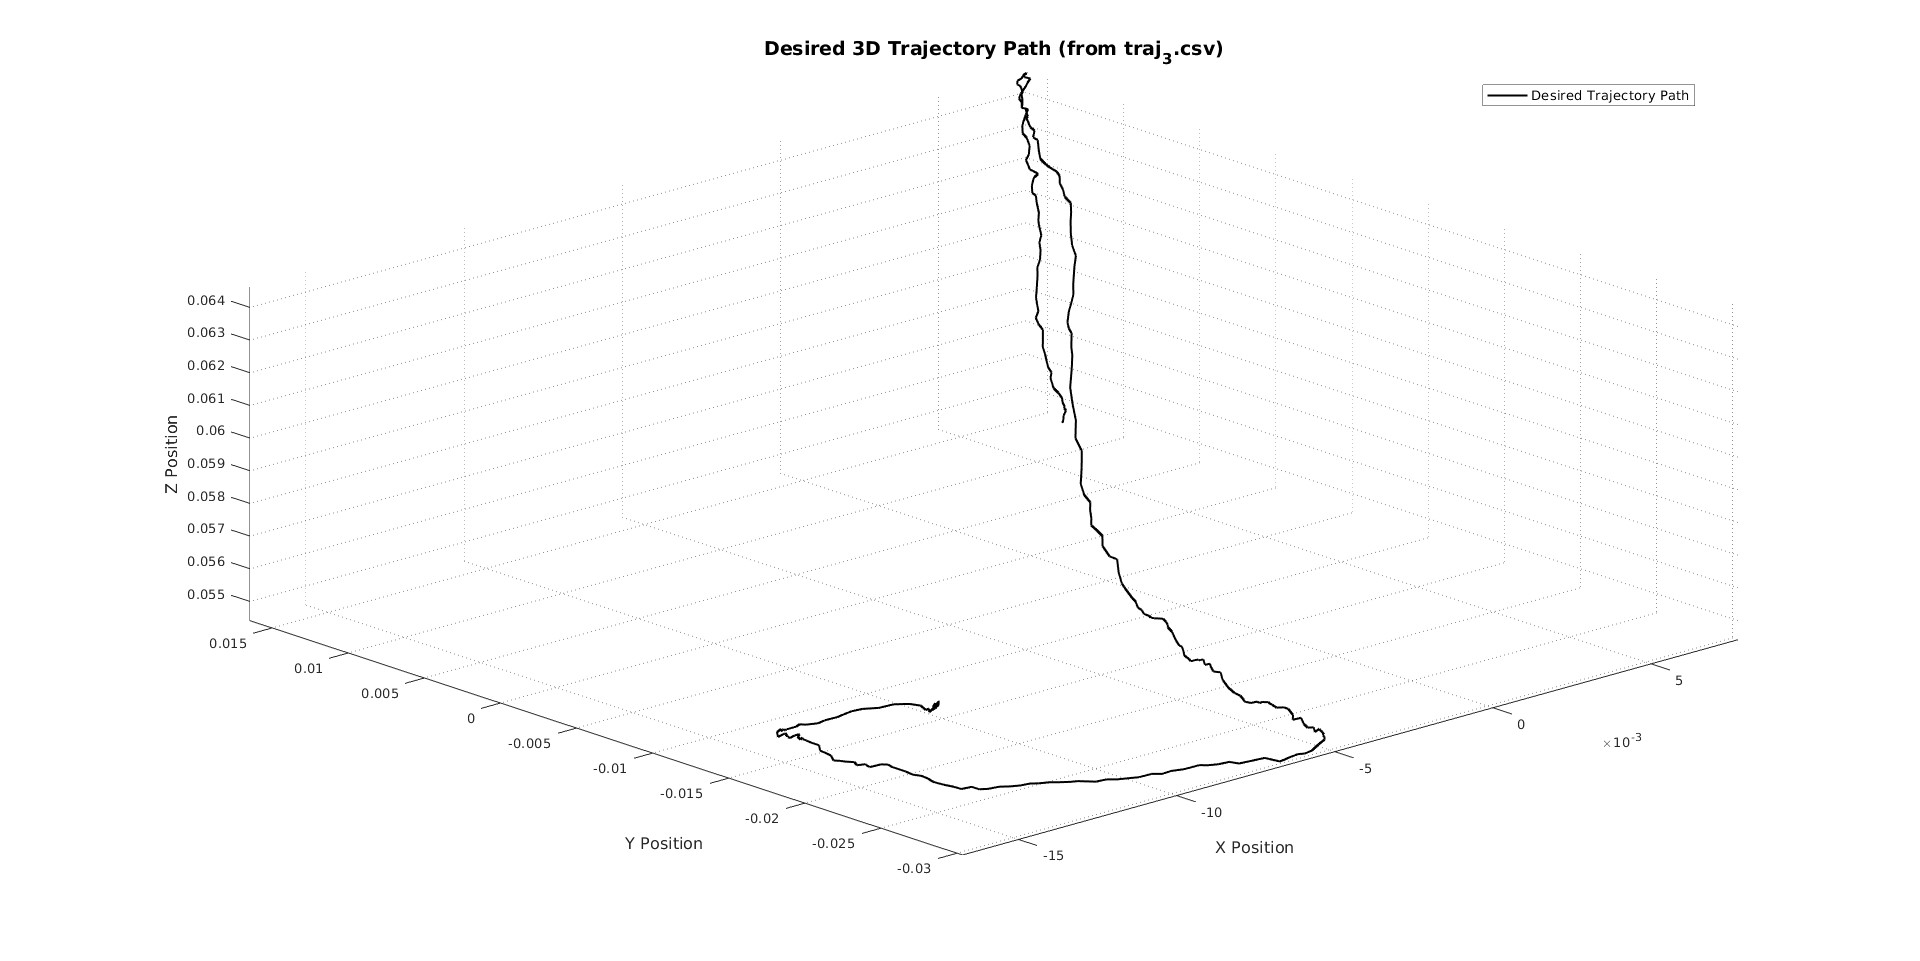
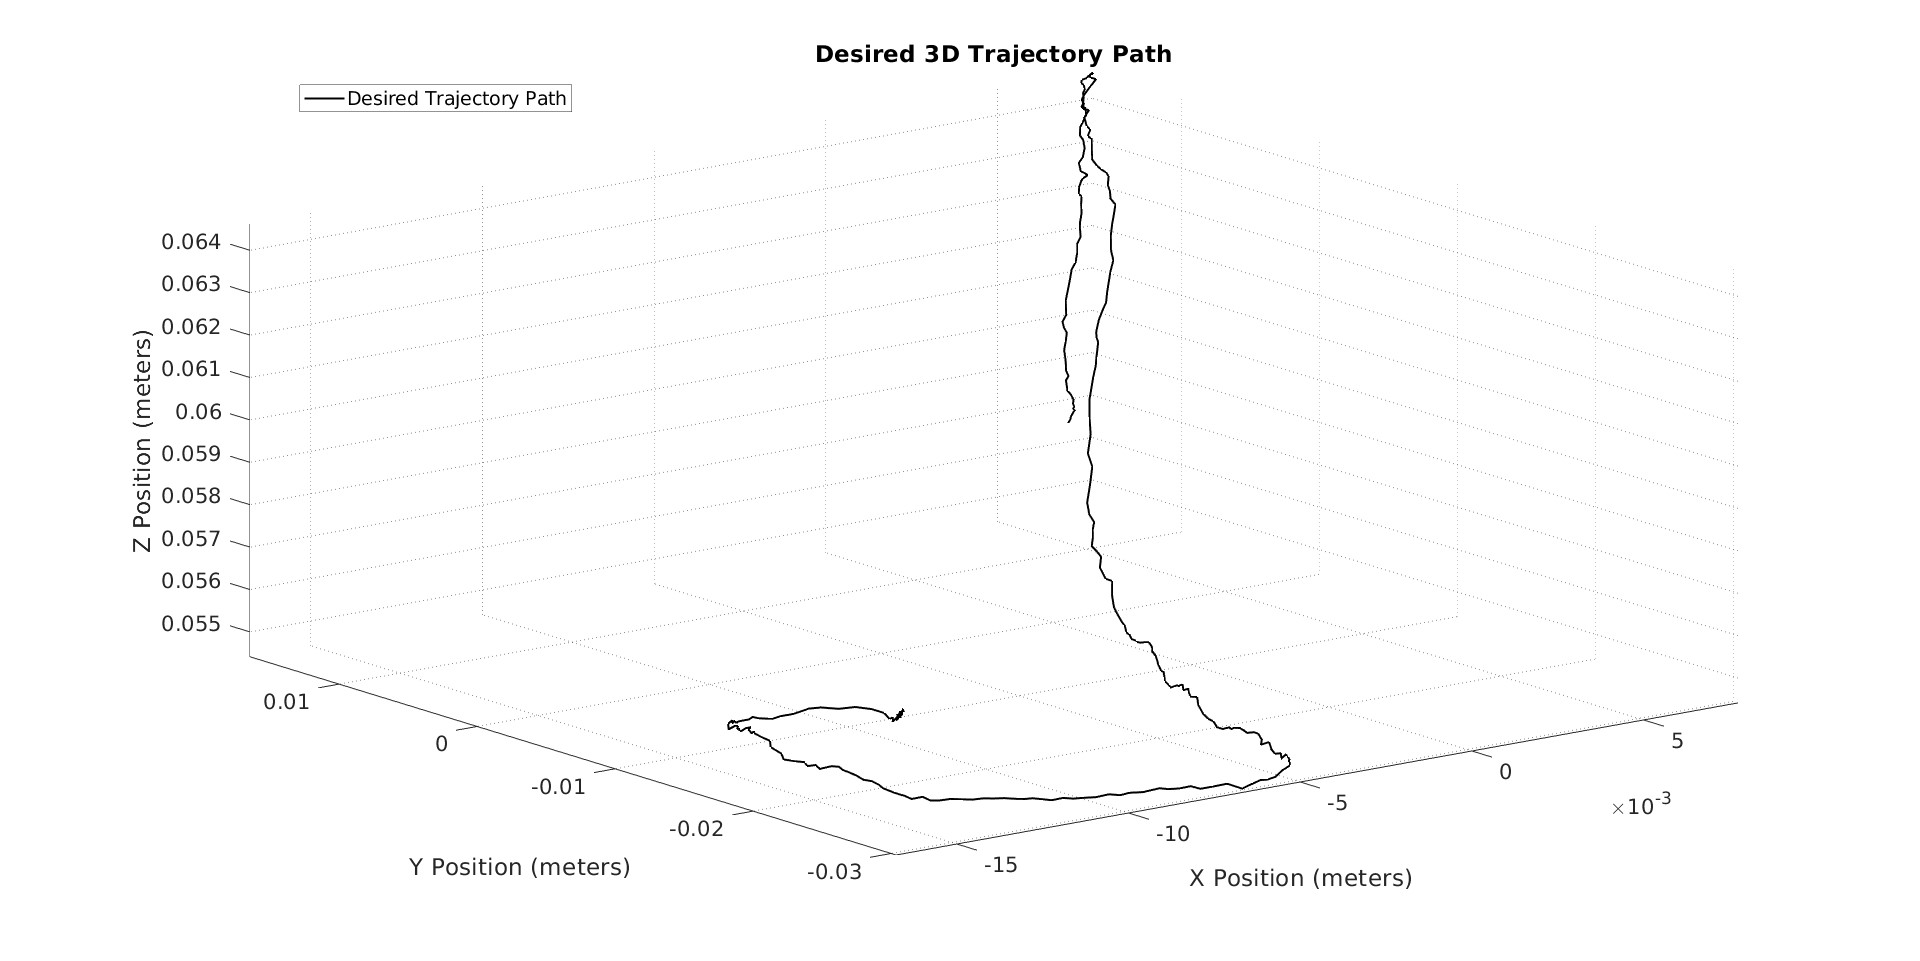
New plotting

diff --git a/performance_data/results_plotting.m b/performance_data/results_plotting.m
@@ -1,6 +1,6 @@
 % MATLAB Script for Thesis Plotting
-% Author: Your Name/Gemini
-% Date: July 9, 2025 (CRITICAL FIX: Correct colors for Combined Pitch/Roll Error in non-trajectory data)
+% Author: Liam Nolan
+% Date: July 19, 2025 (Updated for increased font sizes and color correction)
 clear; close all; clc;
 
 %% Configuration
@@ -29,12 +29,11 @@ traj3_x_idx = 2;
 traj3_y_idx = 3;
 traj3_z_idx = 4;
 
-
-% Plotting parameters for thesis quality
+% Plotting parameters for thesis quality - INCREASED FONT SIZES
 lineWidth = 1.5;
-fontSizeTitle = 14;
-fontSizeLabels = 12;
-fontSizeLegend = 10;
+fontSizeTitle = 24;    % Increased from 18
+fontSizeLabels = 22;   % Increased from 16
+fontSizeLegend = 20;   % Increased from 14
 gridAlpha = 0.5;
 gridLineStyle = ':';
 
@@ -42,18 +41,15 @@ gridLineStyle = ':';
 desired_color = 'k'; % Black for Desired/Commanded
 lqr_color = 'r';     % Red for LQR Actual
 p_color = 'b';       % Blue for P-Control / LQI+FF Actual
+p_noff_color = 'r';  % Green for Proportional Control (No Feedforward) in combined error plots
 
 % Line styles for actual positions and errors
 actual_line_style = '--';
 commanded_line_style = '-';
 
-% Line styles and colors for combined error plots in NON-TRAJECTORY data (for differentiation)
-% This will ensure different colors for LQI+FF vs P-Control, and LQR vs P-Control in the basic cases.
-combined_error_line_styles = {'b-', 'r-'}; % Blue for first, Red for second in combined error plots.
-
-
 %% Process Pitch Data (Individual Control Performance)
 disp('--- Processing Pitch Data (Individual Control Performance) ---');
+
 % Initialize figure for combined Pitch Error plot BEFORE the loop
 figure('Name', 'Combined Pitch Joint Error');
 set(gcf, 'WindowState', 'maximized');
@@ -77,16 +73,20 @@ for i = 1:length(pitchFiles)
     joint_error = joint_effort - joint_position; % Commanded - Actual
 
     [~, baseName, ~] = fileparts(fileName);
+
     % Determine case name for legend and plot color for individual plots
     if contains(baseName, 'LQI_FF', 'IgnoreCase', true)
         caseName = 'Pitch with LQI and Feedforward control';
         actual_plot_color_individual = p_color; % Still blue for individual plot
+        plot_color_combined_error = p_color; % Blue for LQI+FF in combined error
     elseif contains(baseName, 'P_NOFF', 'IgnoreCase', true) || contains(baseName, 'P', 'IgnoreCase', true)
         caseName = 'Pitch with Proportional control';
         actual_plot_color_individual = p_color; % Still blue for individual plot
+        plot_color_combined_error = p_noff_color; % Green for P-Control (non-FF) in combined error
     else
         caseName = strrep(baseName, '_', ' '); 
-        actual_plot_color_individual = 'g'; % Default if unexpected
+        actual_plot_color_individual = 'k'; % Default if unexpected
+        plot_color_combined_error = 'k'; % Default if unexpected
     end
 
     %% Plot 1: JOINT Velocity vs Time (Pitch) - Individual Plot
@@ -98,7 +98,7 @@ for i = 1:length(pitchFiles)
     title(['Pitch Joint Motor Speed vs Time (', caseName, ')'], 'FontSize', fontSizeTitle);
     xlabel('Time (s)', 'FontSize', fontSizeLabels);
     ylabel('PWM Value', 'FontSize', fontSizeLabels);
-    set(gca, 'FontSize', fontSizeLabels);
+    set(gca, 'FontSize', fontSizeLabels); % Apply font size to axis ticks
     disp(['Displayed plot: ', baseName, ' - Joint Velocity']);
 
     %% Plot 2: JOINT Commanded and Actual Position vs Time (Pitch) - Individual Plot
@@ -114,13 +114,13 @@ for i = 1:length(pitchFiles)
     xlabel('Time (s)', 'FontSize', fontSizeLabels);
     ylabel('Position (degrees)', 'FontSize', fontSizeLabels);
     legend('show', 'Location', 'best', 'FontSize', fontSizeLegend);
-    set(gca, 'FontSize', fontSizeLabels);
+    set(gca, 'FontSize', fontSizeLabels); % Apply font size to axis ticks
     disp(['Displayed plot: ', baseName, ' - Joint Commanded & Actual Position']);
 
     %% Plot 3: JOINT Error vs Time (Pitch) - Combined Plot
     figure(findobj('Name', 'Combined Pitch Joint Error'));
-    % Use combined_error_line_styles for differentiation in this specific plot
-    plot(time, joint_error, combined_error_line_styles{mod(i-1, length(combined_error_line_styles)) + 1}, 'LineWidth', lineWidth);
+    % Use plot_color_combined_error for differentiation in this specific plot
+    plot(time, joint_error, plot_color_combined_error, 'LineWidth', lineWidth);
     pitchErrorLegends{end+1} = [caseName ' Error'];
     disp(['Added data to combined Pitch Error plot: ', baseName]);
     disp(' ');
@@ -135,11 +135,11 @@ title('Pitch Joint Error (Commanded - Actual) vs Time', 'FontSize', fontSizeTitl
 xlabel('Time (s)', 'FontSize', fontSizeLabels);
 ylabel('Joint Error (degrees)', 'FontSize', fontSizeLabels);
 legend(pitchErrorLegends, 'Location', 'best', 'FontSize', fontSizeLegend);
-set(gca, 'FontSize', fontSizeLabels);
+set(gca, 'FontSize', fontSizeLabels); % Apply font size to axis ticks
 disp('Displayed combined plot: Combined Pitch Joint Error');
 
-
 disp('--- Processing Roll Data (Individual Control Performance) ---');
+
 % Initialize figure for combined Roll Error plot BEFORE the loop
 figure('Name', 'Combined Roll Joint Error');
 set(gcf, 'WindowState', 'maximized');
@@ -163,16 +163,20 @@ for i = 1:length(rollFiles)
     joint_error = joint_effort - joint_position; % Commanded - Actual
 
     [~, baseName, ~] = fileparts(fileName);
+
     % Determine case name for legend and plot color for individual plots
     if contains(baseName, 'LQR', 'IgnoreCase', true)
         caseName = 'Roll with LQR control';
         actual_plot_color_individual = lqr_color; % Red for individual LQR plot
+        plot_color_combined_error = lqr_color; % Red for LQR in combined error
     elseif contains(baseName, 'P', 'IgnoreCase', true)
         caseName = 'Roll with Proportional control';
         actual_plot_color_individual = p_color; % Blue for individual P-Control plot
+        plot_color_combined_error = p_color; % Blue for P-Control in combined error
     else
         caseName = strrep(baseName, '_', ' '); 
-        actual_plot_color_individual = 'g'; % Default if unexpected
+        actual_plot_color_individual = 'k'; % Default if unexpected
+        plot_color_combined_error = 'k'; % Default if unexpected
     end
 
     %% Plot 1: JOINT Velocity vs Time (Roll) - Individual Plot
@@ -184,7 +188,7 @@ for i = 1:length(rollFiles)
     title(['Roll Joint Motor Speed vs Time (', caseName, ')'], 'FontSize', fontSizeTitle);
     xlabel('Time (s)', 'FontSize', fontSizeLabels);
     ylabel('PWM Value', 'FontSize', fontSizeLabels);
-    set(gca, 'FontSize', fontSizeLabels);
+    set(gca, 'FontSize', fontSizeLabels); % Apply font size to axis ticks
     disp(['Displayed plot: ', baseName, ' - Joint Velocity']);
 
     %% Plot 2: JOINT Commanded and Actual Position vs Time (Roll) - Individual Plot
@@ -200,13 +204,13 @@ for i = 1:length(rollFiles)
     xlabel('Time (s)', 'FontSize', fontSizeLabels);
     ylabel('Position (degrees)', 'FontSize', fontSizeLabels);
     legend('show', 'Location', 'best', 'FontSize', fontSizeLegend);
-    set(gca, 'FontSize', fontSizeLabels);
+    set(gca, 'FontSize', fontSizeLabels); % Apply font size to axis ticks
     disp(['Displayed plot: ', baseName, ' - Joint Commanded & Actual Position']);
 
     %% Plot 3: JOINT Error vs Time (Roll) - Combined Plot
     figure(findobj('Name', 'Combined Roll Joint Error'));
-    % Use combined_error_line_styles for differentiation in this specific plot
-    plot(time, joint_error, combined_error_line_styles{mod(i-1, length(combined_error_line_styles)) + 1}, 'LineWidth', lineWidth);
+    % Use plot_color_combined_error for differentiation in this specific plot
+    plot(time, joint_error, plot_color_combined_error, 'LineWidth', lineWidth);
     rollErrorLegends{end+1} = [caseName ' Error'];
     disp(['Added data to combined Roll Error plot: ', baseName]);
     disp(' ');
@@ -221,7 +225,7 @@ title('Roll Joint Error (Commanded - Actual) vs Time', 'FontSize', fontSizeTitle
 xlabel('Time (s)', 'FontSize', fontSizeLabels);
 ylabel('Joint Error (degrees)', 'FontSize', fontSizeLabels);
 legend(rollErrorLegends, 'Location', 'best', 'FontSize', fontSizeLegend);
-set(gca, 'FontSize', fontSizeLabels);
+set(gca, 'FontSize', fontSizeLabels); % Apply font size to axis ticks
 disp('Displayed combined plot: Combined Roll Joint Error');
 
 disp('--- Processing Trajectory Data (Main Focus for Comparisons) ---');
@@ -240,11 +244,12 @@ try
     plot3(desired_x, desired_y, desired_z, desired_color, 'LineWidth', lineWidth, 'DisplayName', 'Desired Trajectory Path');
     grid on;
     set(gca, 'GridAlpha', gridAlpha, 'GridLineStyle', gridLineStyle);
-    title('Desired 3D Trajectory Path (from traj_3.csv)', 'FontSize', fontSizeTitle);
-    xlabel('X Position', 'FontSize', fontSizeLabels);
-    ylabel('Y Position', 'FontSize', fontSizeLabels);
-    zlabel('Z Position', 'FontSize', fontSizeLabels);
+    title('Desired 3D Trajectory Path', 'FontSize', fontSizeTitle); % Simplified title
+    xlabel('X Position (meters)', 'FontSize', fontSizeLabels); % Added (meters)
+    ylabel('Y Position (meters)', 'FontSize', fontSizeLabels); % Added (meters)
+    zlabel('Z Position (meters)', 'FontSize', fontSizeLabels); % Added (meters)
     legend('show', 'Location', 'best', 'FontSize', fontSizeLegend);
+    set(gca, 'FontSize', fontSizeLabels); % Apply font size to axis ticks
     view(3); % Standard 3D view
     axis tight;
     disp('Displayed the single Desired 3D Trajectory Path plot.');
@@ -254,7 +259,6 @@ end
 
 % --- Process p_traj_follow.csv and lqr_traj_follow.csv for comparisons ---
 trajData = struct(); % Initialize struct to store data
-
 for i = 1:length(trajFollowFiles)
     fileName = trajFollowFiles{i};
     disp(['Loading file: ', fileName]);
@@ -291,13 +295,11 @@ for i = 1:length(trajFollowFiles)
     trajData.(key).pitch_effort = pitch_effort;
     trajData.(key).pitch_position = pitch_position;
     trajData.(key).caseName = caseName; 
-
     disp(['Loaded trajectory data: ', caseName]);
 end
 
 % --- Generate comparison plots for Trajectory Following Data ---
 if isfield(trajData, 'P') && isfield(trajData, 'LQR') % Ensure both files were loaded
-
     disp('Generating Trajectory Follow Comparison Plots...');
     
     %% Individual Commanded & Actual Position vs Time Plots for Trajectory Following
@@ -324,7 +326,7 @@ if isfield(trajData, 'P') && isfield(trajData, 'LQR') % Ensure both files were l
         xlabel('Time (s)', 'FontSize', fontSizeLabels);
         ylabel('Position (degrees)', 'FontSize', fontSizeLabels);
         legend('show', 'Location', 'best', 'FontSize', fontSizeLegend);
-        set(gca, 'FontSize', fontSizeLabels);
+        set(gca, 'FontSize', fontSizeLabels); % Apply font size to axis ticks
         disp(['Displayed 2D plot: ', currentKey, ' Roll Commanded & Actual Position vs Time']);
 
         % Plot: Pitch Commanded and Actual Position vs Time
@@ -340,17 +342,15 @@ if isfield(trajData, 'P') && isfield(trajData, 'LQR') % Ensure both files were l
         xlabel('Time (s)', 'FontSize', fontSizeLabels);
         ylabel('Position (degrees)', 'FontSize', fontSizeLabels);
         legend('show', 'Location', 'best', 'FontSize', fontSizeLegend);
-        set(gca, 'FontSize', fontSizeLabels);
+        set(gca, 'FontSize', fontSizeLabels); % Apply font size to axis ticks
         disp(['Displayed 2D plot: ', currentKey, ' Pitch Commanded & Actual Position vs Time']);
     end
-
 
     %% Combined Error Plots for Trajectory Follow Data
     
     % Calculate errors
     roll_error_p = trajData.P.roll_effort - trajData.P.roll_position; 
     pitch_error_p = trajData.P.pitch_effort - trajData.P.pitch_position; 
-
     roll_error_lqr = trajData.LQR.roll_effort - trajData.LQR.roll_position; 
     pitch_error_lqr = trajData.LQR.pitch_effort - trajData.LQR.pitch_position; 
 
@@ -365,9 +365,9 @@ if isfield(trajData, 'P') && isfield(trajData, 'LQR') % Ensure both files were l
     set(gca, 'GridAlpha', gridAlpha, 'GridLineStyle', gridLineStyle);
     title('Roll Joint Error (Commanded - Actual) vs Time: P vs LQR Trajectory Following', 'FontSize', fontSizeTitle);
     xlabel('Time (s)', 'FontSize', fontSizeLabels);
-    ylabel('Error (Commanded - Actual) (PWM Value - degrees)', 'FontSize', fontSizeLabels);
+    ylabel('Error (Commanded - Actual) (degrees)', 'FontSize', fontSizeLabels); % Corrected Y-label
     legend('show', 'Location', 'best', 'FontSize', fontSizeLegend);
-    set(gca, 'FontSize', fontSizeLabels);
+    set(gca, 'FontSize', fontSizeLabels); % Apply font size to axis ticks
     disp('Displayed combined plot: Trajectory Follow Roll Error');
 
     % Plot Combined Trajectory Follow Pitch Error
@@ -381,15 +381,13 @@ if isfield(trajData, 'P') && isfield(trajData, 'LQR') % Ensure both files were l
     set(gca, 'GridAlpha', gridAlpha, 'GridLineStyle', gridLineStyle);
     title('Pitch Joint Error (Commanded - Actual) vs Time: P vs LQR Trajectory Following', 'FontSize', fontSizeTitle);
     xlabel('Time (s)', 'FontSize', fontSizeLabels);
-    ylabel('Error (Commanded - Actual) (PWM Value - degrees)', 'FontSize', fontSizeLabels);
+    ylabel('Error (Commanded - Actual) (degrees)', 'FontSize', fontSizeLabels); % Corrected Y-label
     legend('show', 'Location', 'best', 'FontSize', fontSizeLegend);
-    set(gca, 'FontSize', fontSizeLabels);
+    set(gca, 'FontSize', fontSizeLabels); % Apply font size to axis ticks
     disp('Displayed combined plot: Trajectory Follow Pitch Error');
-
 
     %% Combined Commanded & Actual Position vs Time Plots (Trajectory Following)
     % Only one "Commanded Position" line is plotted for both.
-
     % Roll Combined Commanded & Actual
     disp('--- Generating Trajectory Following Roll Control Methods Time Response Comparison ---');
     figure('Name', 'Trajectory Following Roll Control Methods Time Response Comparison');
@@ -409,9 +407,8 @@ if isfield(trajData, 'P') && isfield(trajData, 'LQR') % Ensure both files were l
     xlabel('Time (s)', 'FontSize', fontSizeLabels);
     ylabel('Position (degrees)', 'FontSize', fontSizeLabels);
     legend('show', 'Location', 'best', 'FontSize', fontSizeLegend);
-    set(gca, 'FontSize', fontSizeLabels);
+    set(gca, 'FontSize', fontSizeLabels); % Apply font size to axis ticks
     disp('Displayed plot: Trajectory Following Roll Control Methods Time Response Comparison');
-
 
     % Pitch Combined Commanded & Actual
     disp('--- Generating Trajectory Following Pitch Control Methods Time Response Comparison ---');
@@ -432,9 +429,8 @@ if isfield(trajData, 'P') && isfield(trajData, 'LQR') % Ensure both files were l
     xlabel('Time (s)', 'FontSize', fontSizeLabels);
     ylabel('Position (degrees)', 'FontSize', fontSizeLabels);
     legend('show', 'Location', 'best', 'FontSize', fontSizeLegend);
-    set(gca, 'FontSize', fontSizeLabels);
+    set(gca, 'FontSize', fontSizeLabels); % Apply font size to axis ticks
     disp('Displayed plot: Trajectory Following Pitch Control Methods Time Response Comparison');
-
 else
     warning('Skipping Trajectory Follow comparison plots as "p_traj_follow.csv" or "lqr_traj_follow.csv" data could not be fully loaded.');
 end
